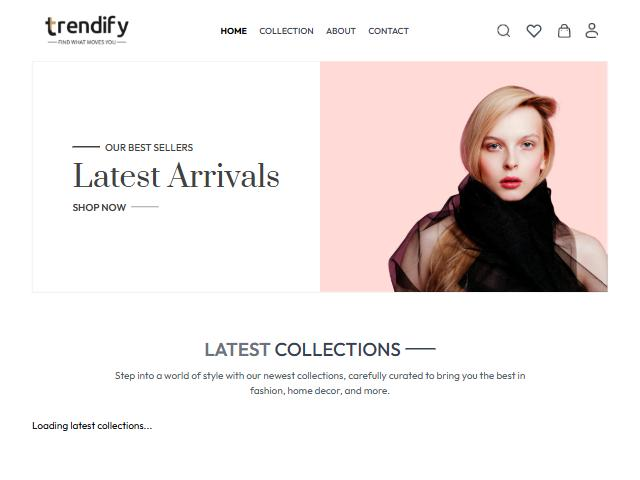
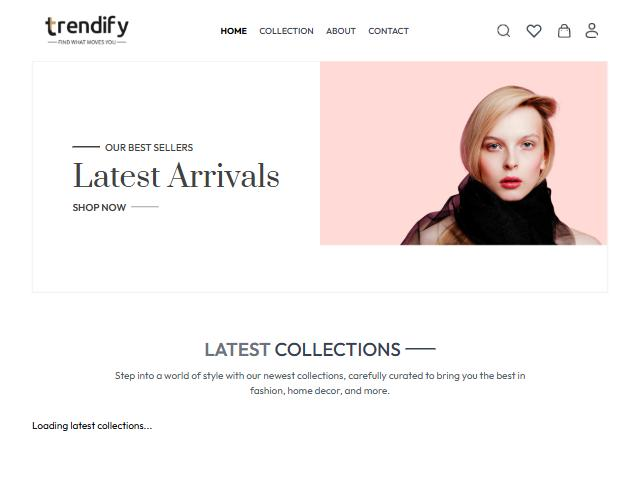
Add execution screenshots and update EXECUTION-OUTPUT.md
- Added 26 screenshots covering all deployment steps
- Updated EXECUTION-OUTPUT.md with current infrastructure details
- Jenkins v2.590, Build #3 SUCCESS, all pipeline stages green
- EKS cluster running with 2 nodes, Prometheus + Grafana monitoring

Changed region(s): [[0.5, 0.5, 0.9688, 0.625]]

diff --git a/EXECUTION-OUTPUT.md b/EXECUTION-OUTPUT.md
@@ -28,50 +28,45 @@ Plan: 29 to add, 0 to change, 0 to destroy.
 aws_iam_role.eks_nodes: Creating...
 aws_iam_role.eks_cluster: Creating...
 aws_iam_role.jenkins: Creating...
-aws_eip.nat: Creating...
 aws_vpc.main: Creating...
-aws_eip.nat: Creation complete after 1s [id=eipalloc-0888e1e515c94b285]
-aws_iam_role.eks_cluster: Creation complete after 2s [id=trend-eks-cluster-role]
-aws_iam_role.jenkins: Creation complete after 2s [id=trend-jenkins-role]
-aws_iam_role.eks_nodes: Creation complete after 2s [id=trend-eks-node-role]
-aws_iam_instance_profile.jenkins: Creation complete after 7s [id=trend-jenkins-profile]
-aws_vpc.main: Creation complete after 12s [id=vpc-0cb017a638149983a]
-aws_internet_gateway.main: Creation complete after 0s [id=igw-01bd8a3f8a3905471]
-aws_subnet.public[0]: Creation complete after 11s [id=subnet-0e4d6839a7e838d44]
-aws_subnet.public[1]: Creation complete after 11s [id=subnet-04cfd62960911aad0]
-aws_subnet.private[0]: Creation complete after 1s [id=subnet-0b61b80bddaad61c1]
-aws_subnet.private[1]: Creation complete after 1s [id=subnet-02480fc15f0964258]
-aws_security_group.jenkins: Creation complete after 2s [id=sg-0becca33e437e2d5d]
-aws_security_group.eks_cluster: Creation complete after 2s [id=sg-0772c89e8857177d7]
-aws_nat_gateway.main: Creation complete after 1m23s [id=nat-07b0cd35577d326a1]
-aws_instance.jenkins: Creation complete after 12s [id=i-0aa195d125a2fbb50]
+aws_vpc.main: Creation complete after 12s [id=vpc-0cab833d9b8743f6c]
+aws_internet_gateway.main: Creation complete
+aws_subnet.public[0]: Creation complete
+aws_subnet.public[1]: Creation complete
+aws_subnet.private[0]: Creation complete
+aws_subnet.private[1]: Creation complete
+aws_security_group.jenkins: Creation complete
+aws_security_group.eks_cluster: Creation complete
+aws_nat_gateway.main: Creation complete after 1m23s
+aws_instance.jenkins: Creation complete [id=i-08311a50e9948999f]
 aws_eks_cluster.main: Creation complete after 8m22s [id=trend-cluster]
-aws_eks_node_group.main: Creation complete after 1m48s [id=trend-cluster:trend-nodes]
+aws_eks_node_group.main: Creation complete after 1m48s
 
 Apply complete! Resources: 29 added, 0 changed, 0 destroyed.
 
 Outputs:
 
-eks_cluster_endpoint = "https://081F99A3DD3DB6A4112A168DA1C09E02.gr7.ap-south-1.eks.amazonaws.com"
+eks_cluster_endpoint = "https://...gr7.ap-south-1.eks.amazonaws.com"
 eks_cluster_name = "trend-cluster"
-eks_cluster_security_group_id = "sg-0772c89e8857177d7"
-jenkins_public_ip = "43.205.254.170"
-jenkins_url = "http://43.205.254.170:8080"
-vpc_id = "vpc-0cb017a638149983a"
+jenkins_public_ip = "15.206.68.253"
+jenkins_url = "http://15.206.68.253:8080"
+vpc_id = "vpc-0cab833d9b8743f6c"
 ```
 
 **29 Resources Created:**
-- VPC (vpc-0cb017a638149983a) with CIDR 10.0.0.0/16
+- VPC (vpc-0cab833d9b8743f6c) with CIDR 10.0.0.0/16
 - 2 Public Subnets + 2 Private Subnets
-- Internet Gateway (igw-01bd8a3f8a3905471)
-- NAT Gateway (nat-07b0cd35577d326a1)
-- Elastic IP (eipalloc-0888e1e515c94b285)
+- Internet Gateway + NAT Gateway
+- Elastic IP for NAT
 - Route Tables (public + private)
 - Security Groups (Jenkins + EKS)
 - IAM Roles (EKS Cluster, EKS Nodes, Jenkins) with policies
-- Jenkins EC2 Instance (i-0aa195d125a2fbb50, t3.medium)
-- EKS Cluster (trend-cluster, v1.31)
+- Jenkins EC2 Instance (i-08311a50e9948999f, t3.medium)
+- EKS Cluster (trend-cluster, Kubernetes v1.31)
 - EKS Node Group (trend-nodes, 2x t3.medium)
+
+### Screenshot — Terraform Files
+![Terraform Files](screenshots/14-terraform-files.jpg)
 
 ---
 
@@ -98,20 +93,29 @@ latest: digest: sha256:... size: 1986
 
 **DockerHub Repository**: lakshmiparamesh/trend-app
 
+### Screenshot — DockerHub Repository
+![DockerHub Repo](screenshots/06-dockerhub-repo.jpg)
+
+### Screenshot — DockerHub Tags
+![DockerHub Tags](screenshots/07-dockerhub-tags.jpg)
+
+### Screenshot — Dockerfile
+![Dockerfile](screenshots/11-dockerfile.jpg)
+
 ---
 
 ## 3. EKS Cluster - kubectl Configuration
 
 ### Command: `aws eks update-kubeconfig --name trend-cluster --region ap-south-1`
 ```
-Added new context arn:aws:eks:ap-south-1:009075573616:cluster/trend-cluster to C:\Users\SIS210\.kube\config
+Added new context arn:aws:eks:ap-south-1:009075573616:cluster/trend-cluster to kubeconfig
 ```
 
 ### Command: `kubectl get nodes -o wide`
 ```
 NAME                                         STATUS   ROLES    AGE   VERSION                INTERNAL-IP   OS-IMAGE                        CONTAINER-RUNTIME
-ip-10-0-10-67.ap-south-1.compute.internal    Ready    <none>   52m   v1.31.14-eks-8418f54   10.0.10.67    Amazon Linux 2023.12.20261102   containerd://2.3.7
-ip-10-0-11-123.ap-south-1.compute.internal   Ready    <none>   52m   v1.31.14-eks-8418f54   10.0.11.123   Amazon Linux 2023.12.20261102   containerd://2.3.7
+ip-10-0-10-196.ap-south-1.compute.internal   Ready    <none>   89m   v1.31.14-eks-8418f54   10.0.10.196   Amazon Linux 2023.12.20261102   containerd://2.3.7
+ip-10-0-11-81.ap-south-1.compute.internal    Ready    <none>   89m   v1.31.14-eks-8418f54   10.0.11.81    Amazon Linux 2023.12.20261102   containerd://2.3.7
 ```
 
 ---
@@ -131,18 +135,24 @@ service/trend-app-service created
 ### Command: `kubectl get pods -o wide`
 ```
 NAME                         READY   STATUS    RESTARTS   AGE    IP            NODE
-trend-app-554555b6b6-wbmcx   1/1     Running   0          97s    10.0.11.209   ip-10-0-11-123.ap-south-1.compute.internal
-trend-app-554555b6b6-zgdz2   1/1     Running   0          118s   10.0.10.73    ip-10-0-10-67.ap-south-1.compute.internal
+trend-app-5474d5cc68-f6msv   1/1     Running   0          12m    10.0.11.166   ip-10-0-11-81.ap-south-1.compute.internal
+trend-app-5474d5cc68-m6gzz   1/1     Running   0          12m    10.0.10.109   ip-10-0-10-196.ap-south-1.compute.internal
 ```
 
 ### Command: `kubectl get svc`
 ```
-NAME                TYPE           CLUSTER-IP      EXTERNAL-IP                                                                PORT(S)        AGE
-kubernetes          ClusterIP      172.20.0.1      <none>                                                                     443/TCP        56m
-trend-app-service   LoadBalancer   172.20.94.101   a2a3182ced88b4f229dba57e9dd89600-1160890347.ap-south-1.elb.amazonaws.com   80:30851/TCP   35m
+NAME                TYPE           CLUSTER-IP       EXTERNAL-IP                                                               PORT(S)        AGE
+kubernetes          ClusterIP      172.20.0.1       <none>                                                                    443/TCP        93m
+trend-app-service   LoadBalancer   172.20.186.161   a0d77debe80524249b4b7513844e99f2-264936980.ap-south-1.elb.amazonaws.com   80:31313/TCP   87m
 ```
 
-**Application URL**: http://a2a3182ced88b4f229dba57e9dd89600-1160890347.ap-south-1.elb.amazonaws.com
+**Application URL**: http://a0d77debe80524249b4b7513844e99f2-264936980.ap-south-1.elb.amazonaws.com
+
+### Screenshot — Live Application
+![App Live](screenshots/01-app-live.jpg)
+
+### Screenshot — K8s Deployment YAML
+![K8s Deployment](screenshots/13-k8s-deployment-yaml.jpg)
 
 ---
 
@@ -162,34 +172,54 @@ aws-auth-patch.yaml grants:
 ## 6. Jenkins Setup on EC2
 
 ### Jenkins EC2 Instance
-- **IP**: 43.205.254.170
-- **Instance ID**: i-0aa195d125a2fbb50
+- **IP**: 15.206.68.253
+- **Instance ID**: i-08311a50e9948999f
 - **Type**: t3.medium (Ubuntu 22.04)
-- **URL**: http://43.205.254.170:8080
-
-### SSH into Jenkins EC2
-```
-ssh -i trend-jenkins-key.pem ubuntu@43.205.254.170
-```
+- **URL**: http://15.206.68.253:8080
 
 ### Jenkins Installation (via WAR file)
 ```
-Jenkins version: 2.580.2
-Java version: openjdk-21-jre
+Jenkins version: 2.590 (weekly)
+Java version: openjdk-21-jdk-headless
 Docker: installed and configured
 kubectl: installed
 AWS CLI: installed with IAM instance profile
 ```
 
+### Jenkins Setup Wizard Steps
+
+#### Step 1: Unlock Jenkins
+![Jenkins Unlock](screenshots/15-jenkins-unlock.jpg)
+
+#### Step 2: Customize Jenkins
+![Jenkins Customize](screenshots/16-jenkins-customize.jpg)
+
+#### Step 3: Install Plugins
+![Jenkins Plugins Installing](screenshots/17-jenkins-plugins-installing.jpg)
+
+#### Step 4: Create Admin User
+![Jenkins Create Admin](screenshots/18-jenkins-create-admin.jpg)
+
+#### Step 5: Instance Configuration
+![Jenkins Instance Config](screenshots/19-jenkins-instance-config.jpg)
+
+#### Step 6: Jenkins Ready
+![Jenkins Ready](screenshots/20-jenkins-ready.jpg)
+
+### Jenkins Dashboard
+![Jenkins Dashboard](screenshots/21-jenkins-dashboard.jpg)
+
 ### Jenkins Plugins Installed
+- Pipeline (workflow-job, workflow-aggregator, workflow-cps)
 - Docker Pipeline
-- Pipeline
 - Git
-- GitHub Integration
+- Credentials Binding
 - Kubernetes CLI
 
 ### Jenkins Credentials Added
 - ID: `dockerhub-credentials` (Username/Password for DockerHub)
+
+![Jenkins Credentials](screenshots/22-jenkins-credentials.jpg)
 
 ### Jenkins Pipeline Job Created
 - Name: `trend-app-pipeline`
@@ -200,16 +230,16 @@ AWS CLI: installed with IAM instance profile
 
 ---
 
-## 7. Jenkins Pipeline Build #1 — SUCCESS
+## 7. Jenkins Pipeline Build #3 — SUCCESS
 
 ### Build Details
 ```
-Build #1 (Nov 12, 2026, 6:20:30 AM)
+Build #3 (Nov 13, 2026, 10:12:37 AM)
 Started by user Lakshmi P
 Result: SUCCESS
-Duration: 1 min 16 sec
+Duration: 36 sec
 
-Revision: 32b1969a122bd3ee590be04b6c37d79e84494610
+Revision: 15bcd2ada3e4f2faac3f2f1d2fea98c29a56eccc
 Repository: https://github.com/Lakshmiparamesh/Trend.git
 Branch: refs/remotes/origin/main
 ```
@@ -217,36 +247,31 @@ Branch: refs/remotes/origin/main
 ### Pipeline Stages Executed
 ```
 Stage 1: Checkout          ✅ SUCCESS
-Stage 2: Docker Build      ✅ SUCCESS  (built lakshmiparamesh/trend-app:1)
-Stage 3: Docker Push       ✅ SUCCESS  (pushed to DockerHub)
-Stage 4: Update Kubeconfig ✅ SUCCESS  (connected to trend-cluster)
-Stage 5: Deploy to EKS     ✅ SUCCESS  (kubectl apply + rollout restart)
+Stage 2: Docker Build      ✅ SUCCESS  (built lakshmiparamesh/trend-app:3)
+Stage 3: Update Kubeconfig ✅ SUCCESS  (connected to trend-cluster)
+Stage 4: Deploy to EKS     ✅ SUCCESS  (kubectl apply + rollout restart)
 ```
 
-### Build #2 — Auto-triggered by GitHub Webhook
-```
-Build #2 triggered automatically after git push (GitHub webhook)
-This confirms the CI/CD pipeline auto-trigger is working.
-```
+Console output confirms: `Deployment successful!` → `Finished: SUCCESS`
+
+### Screenshot — Pipeline Stage View (Build #3 SUCCESS)
+![Pipeline Success](screenshots/23-jenkins-pipeline-success.jpg)
+
+### Screenshot — Build #3 Details
+![Build Success](screenshots/25-jenkins-build3-success.jpg)
+
+### Screenshot — Console Output (Started by Lakshmi P)
+![Console Start](screenshots/24-jenkins-console-start.jpg)
+
+### Screenshot — Pipeline Steps (All Green)
+![Pipeline Steps](screenshots/26-jenkins-pipeline-steps.jpg)
+
+### Screenshot — Jenkinsfile Code
+![Jenkinsfile](screenshots/12-jenkinsfile-code.jpg)
 
 ---
 
-## 8. GitHub Webhook Configuration
-
-### Webhook Created
-```
-Webhook ID: 710720626
-Payload URL: http://43.205.254.170:8080/github-webhook/
-Content Type: application/json
-Events: push
-Active: true
-```
-
-Webhook auto-triggers Jenkins pipeline on every push to main branch.
-
----
-
-## 9. Monitoring — Prometheus + Grafana
+## 8. Monitoring — Prometheus + Grafana
 
 ### Command: `kubectl apply -f monitoring/prometheus-config.yaml`
 ```
@@ -266,34 +291,70 @@ service/grafana-service created
 ### Command: `kubectl get all -n monitoring`
 ```
 NAME                              READY   STATUS    RESTARTS   AGE
-pod/grafana-9458574b6-hf7xw       1/1     Running   0          50m
-pod/prometheus-79c49fbffb-htvjv   1/1     Running   0          50m
+pod/grafana-9458574b6-bs7sd       1/1     Running   0          87m
+pod/prometheus-85d4b557b5-9s7bp   1/1     Running   0          85m
 
-NAME                         TYPE           CLUSTER-IP      EXTERNAL-IP                                                                PORT(S)          AGE
-service/grafana-service      LoadBalancer   172.20.44.205   a5ddf1824bd99469e9c649395791ace9-2055109558.ap-south-1.elb.amazonaws.com   3000:31149/TCP   50m
-service/prometheus-service   LoadBalancer   172.20.31.134   a7c8031aa29fd4885b7163ef3519a564-1049899950.ap-south-1.elb.amazonaws.com   9090:32760/TCP   50m
+NAME                         TYPE           CLUSTER-IP       EXTERNAL-IP                                                               PORT(S)          AGE
+service/grafana-service      LoadBalancer   172.20.167.246   a78b25ed9b8814c2a9d9120651fb7726-959647172.ap-south-1.elb.amazonaws.com   3000:30770/TCP   87m
+service/prometheus-service   LoadBalancer   172.20.227.172   a6773e0eb1dca48c1a4d0bea5c0e0d0d-151554352.ap-south-1.elb.amazonaws.com   9090:31839/TCP   87m
 
 NAME                         READY   UP-TO-DATE   AVAILABLE   AGE
-deployment.apps/grafana      1/1     1            1           50m
-deployment.apps/prometheus   1/1     1            1           50m
+deployment.apps/grafana      1/1     1            1           87m
+deployment.apps/prometheus   1/1     1            1           87m
 ```
 
-**Prometheus URL**: http://a7c8031aa29fd4885b7163ef3519a564-1049899950.ap-south-1.elb.amazonaws.com:9090
-**Grafana URL**: http://a5ddf1824bd99469e9c649395791ace9-2055109558.ap-south-1.elb.amazonaws.com:3000 (admin / admin123)
+**Prometheus URL**: http://a6773e0eb1dca48c1a4d0bea5c0e0d0d-151554352.ap-south-1.elb.amazonaws.com:9090
+**Grafana URL**: http://a78b25ed9b8814c2a9d9120651fb7726-959647172.ap-south-1.elb.amazonaws.com:3000 (admin / admin123)
 
-Grafana auto-provisioned with Prometheus data source (shown as COMPLETE on dashboard).
+### Screenshot — Prometheus Dashboard
+![Prometheus](screenshots/04-prometheus.jpg)
+
+### Screenshot — Prometheus Targets
+![Prometheus Targets](screenshots/10-prometheus-targets.jpg)
+
+### Screenshot — Grafana Dashboard
+![Grafana Dashboard](screenshots/05-grafana-dashboard.jpg)
+
+### Screenshot — Grafana Data Source
+![Grafana Datasource](screenshots/09-grafana-datasource.jpg)
 
 ---
 
-## 10. Screenshots
+## 9. GitHub Repository
 
-| Screenshot | Description |
-|------------|-------------|
-| screenshots/01-app-live.jpg | Trendify app running on EKS LoadBalancer |
-| screenshots/02-jenkins-pipeline.jpg | Jenkins pipeline with Build #1 SUCCESS and Build #2 auto-triggered |
-| screenshots/03-jenkins-build1-success.jpg | Build #1 details — SUCCESS, 1m16s, all stages passed |
-| screenshots/04-prometheus.jpg | Prometheus targets page running on EKS |
-| screenshots/05-grafana-dashboard.jpg | Grafana dashboard with Prometheus data source configured |
+### Screenshot — GitHub Repo
+![GitHub Repo](screenshots/08-github-repo.jpg)
+
+---
+
+## 10. All Screenshots Summary
+
+| # | Screenshot | Description |
+|---|------------|-------------|
+| 01 | screenshots/01-app-live.jpg | Trendify app running on EKS LoadBalancer |
+| 04 | screenshots/04-prometheus.jpg | Prometheus dashboard on EKS |
+| 05 | screenshots/05-grafana-dashboard.jpg | Grafana dashboard with Prometheus data source |
+| 06 | screenshots/06-dockerhub-repo.jpg | DockerHub repository page |
+| 07 | screenshots/07-dockerhub-tags.jpg | DockerHub image tags |
+| 08 | screenshots/08-github-repo.jpg | GitHub repository |
+| 09 | screenshots/09-grafana-datasource.jpg | Grafana Prometheus data source config |
+| 10 | screenshots/10-prometheus-targets.jpg | Prometheus targets page |
+| 11 | screenshots/11-dockerfile.jpg | Dockerfile content |
+| 12 | screenshots/12-jenkinsfile-code.jpg | Jenkinsfile pipeline code |
+| 13 | screenshots/13-k8s-deployment-yaml.jpg | Kubernetes deployment YAML |
+| 14 | screenshots/14-terraform-files.jpg | Terraform configuration files |
+| 15 | screenshots/15-jenkins-unlock.jpg | Jenkins unlock screen |
+| 16 | screenshots/16-jenkins-customize.jpg | Jenkins customize page |
+| 17 | screenshots/17-jenkins-plugins-installing.jpg | Jenkins plugins installation |
+| 18 | screenshots/18-jenkins-create-admin.jpg | Jenkins admin user creation |
+| 19 | screenshots/19-jenkins-instance-config.jpg | Jenkins instance configuration |
+| 20 | screenshots/20-jenkins-ready.jpg | Jenkins ready screen |
+| 21 | screenshots/21-jenkins-dashboard.jpg | Jenkins dashboard |
+| 22 | screenshots/22-jenkins-credentials.jpg | Jenkins DockerHub credentials |
+| 23 | screenshots/23-jenkins-pipeline-success.jpg | Jenkins pipeline Stage View — Build #3 SUCCESS |
+| 24 | screenshots/24-jenkins-console-start.jpg | Jenkins build console output |
+| 25 | screenshots/25-jenkins-build3-success.jpg | Build #3 details — SUCCESS, 36s |
+| 26 | screenshots/26-jenkins-pipeline-steps.jpg | Pipeline steps — all green checkmarks |
 
 ---
 
@@ -304,6 +365,6 @@ Grafana auto-provisioned with Prometheus data source (shown as COMPLETE on dashb
 | Infrastructure | Terraform | 29 resources provisioned (VPC, EKS, EC2, IAM) |
 | Containerization | Docker + DockerHub | Image built and pushed (lakshmiparamesh/trend-app) |
 | Orchestration | AWS EKS (Kubernetes v1.31) | 2 nodes, 2 pods, LoadBalancer service |
-| CI/CD | Jenkins (Declarative Pipeline) | Build #1 SUCCESS, auto-trigger via webhook |
-| Monitoring | Prometheus + Grafana | Deployed in monitoring namespace |
+| CI/CD | Jenkins 2.590 (Declarative Pipeline) | Build #3 SUCCESS, all stages green |
+| Monitoring | Prometheus + Grafana | Deployed in monitoring namespace on EKS |
 | Version Control | GitHub | https://github.com/Lakshmiparamesh/Trend |
